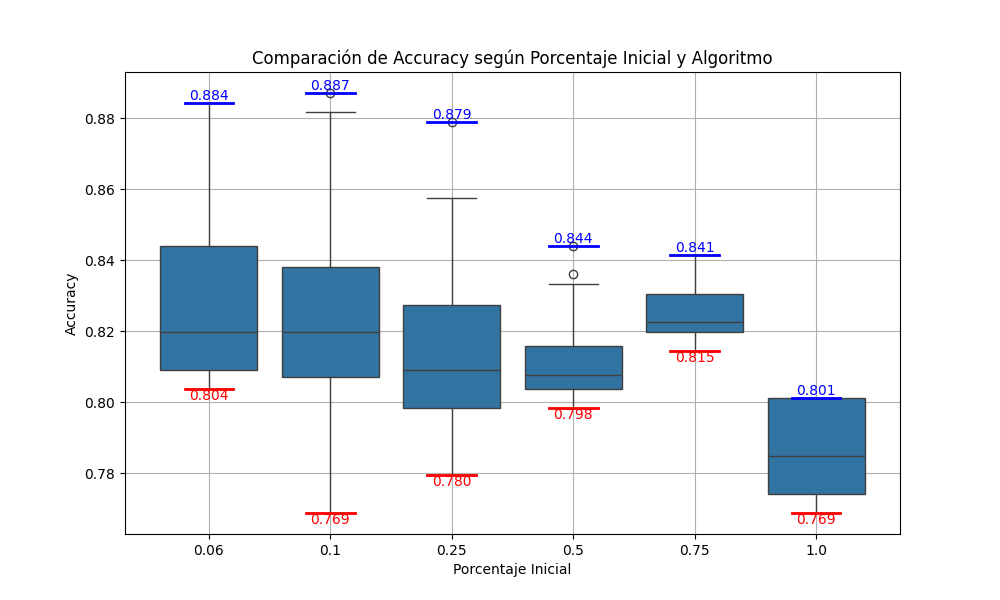
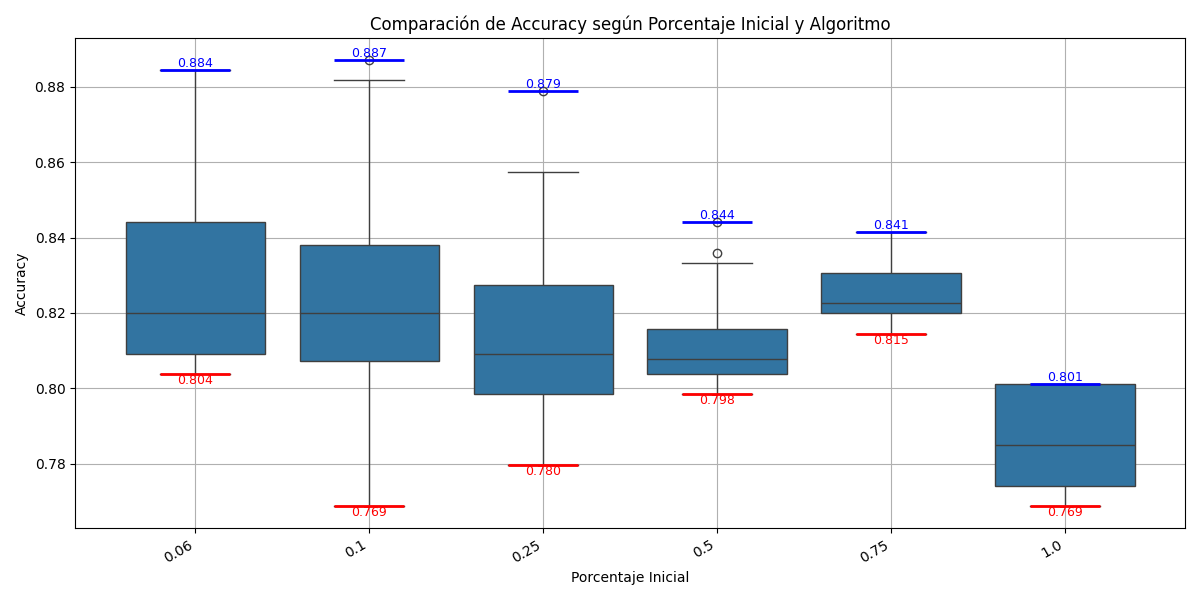
Generación de boxplots arreglada

diff --git a/utils/utils_plot.py b/utils/utils_plot.py
@@ -86,44 +86,43 @@ def plot_multiple_fitness_evolution(
     plt.close()
 
 
-def plot_min_max_lines(df: pd.DataFrame | pl.DataFrame, y_col, x_col):
-    # Convertir a pandas si es un DataFrame de polars (porque matplotlib funciona mejor con pandas)
-    if isinstance(df, pl.DataFrame):
-        # df = df.to_pandas()  # No disponible por la version de polars
-        df = pd.DataFrame(df.to_dict())
+def plot_min_max_lines(df: pd.DataFrame, y_col: str, x_col: str, ax: plt.Axes):
+    grouped = df.groupby(x_col)[y_col].agg(['min', 'max']).reset_index()
 
-    # Obtener los valores mínimo y máximo por cada categoría en x_col
-    grouped = df.groupby(x_col)[y_col].agg(['min', 'max'])
+    # Obtener lo que se ve realmente en el eje X
+    xlabels = [tick.get_text() for tick in ax.get_xticklabels()]
+    xticks = ax.get_xticks()
+    positions = dict(zip(xlabels, xticks))
 
-    # Iterar sobre cada categoría
-    for i, (cat, values) in enumerate(grouped.iterrows()):
-        min_val, max_val = values['min'], values['max']
+    for _, row in grouped.iterrows():
+        cat = str(row[x_col])
+        min_val = row['min']
+        max_val = row['max']
 
-        # Dibujar líneas horizontales en los valores min y max
-        plt.plot([i - 0.2, i + 0.2], [min_val, min_val], color='red', lw=2)
-        plt.plot([i - 0.2, i + 0.2], [max_val, max_val], color='blue', lw=2)
-
-        # Anotar los valores exactos
-        plt.text(i, min_val, f'{min_val:.3f}', ha='center', va='top', fontsize=10, color='red')
-        plt.text(i, max_val, f'{max_val:.3f}', ha='center', va='bottom', fontsize=10, color='blue')
+        if cat in positions:
+            xpos = positions[cat]
+            ax.hlines(min_val, xpos - 0.2, xpos + 0.2, color='red', lw=2)
+            ax.hlines(max_val, xpos - 0.2, xpos + 0.2, color='blue', lw=2)
+            ax.text(xpos, min_val, f'{min_val:.3f}', ha='center', va='top', fontsize=9, color='red')
+            ax.text(xpos, max_val, f'{max_val:.3f}', ha='center', va='bottom', fontsize=9, color='blue')
 
 
 def plot_boxplot(df: pd.DataFrame, metric: str, filename: str | None, hue: str | None, title: str, eje_x: str):
+    plt.figure(figsize=(12, 6))
+    ax = sns.boxplot(data=df, x=eje_x, y=metric.title())
 
-    plt.figure(figsize=(10, 6))
-
-    sns.boxplot(data=df, x=eje_x, y=metric.title())
-
+    plt.xticks(rotation=30, ha="right")
     plt.title(title)
     plt.xlabel(eje_x)
     plt.ylabel(metric.title())
     if hue:
         plt.legend(title=hue, bbox_to_anchor=(1.05, 1), loc='best')
 
-    plot_min_max_lines(df, metric, eje_x)
+    plot_min_max_lines(df, metric.title(), eje_x, ax)
 
     plt.grid(True)
-    if filename is not None:
+    plt.tight_layout()
+    if filename:
         plt.savefig(filename)
 
     # plt.show()

diff --git a/utils/classes.py b/utils/classes.py
@@ -2,13 +2,13 @@ from enum import Enum
 
 
 class AlgorithmList(Enum):
-    # ALEATORIO = "aleatorio"
-    # BUSQUEDA_LOCAL = "busqueda local"
+    ALEATORIO = "aleatorio"
+    BUSQUEDA_LOCAL = "busqueda local"
     FREE_BUSQUEDA_LOCAL = "free busqueda local"
-    # GENETICO = "genetico"
-    # MEMETICO = "memetico"
-    # GENETICO2 = "genetico2"
-    # GENETICO3 = "genetico3"
+    GENETICO = "genetico"
+    MEMETICO = "memetico"
+    GENETICO2 = "genetico2"
+    GENETICO3 = "genetico3"
 
 
 class MetricList(Enum):
